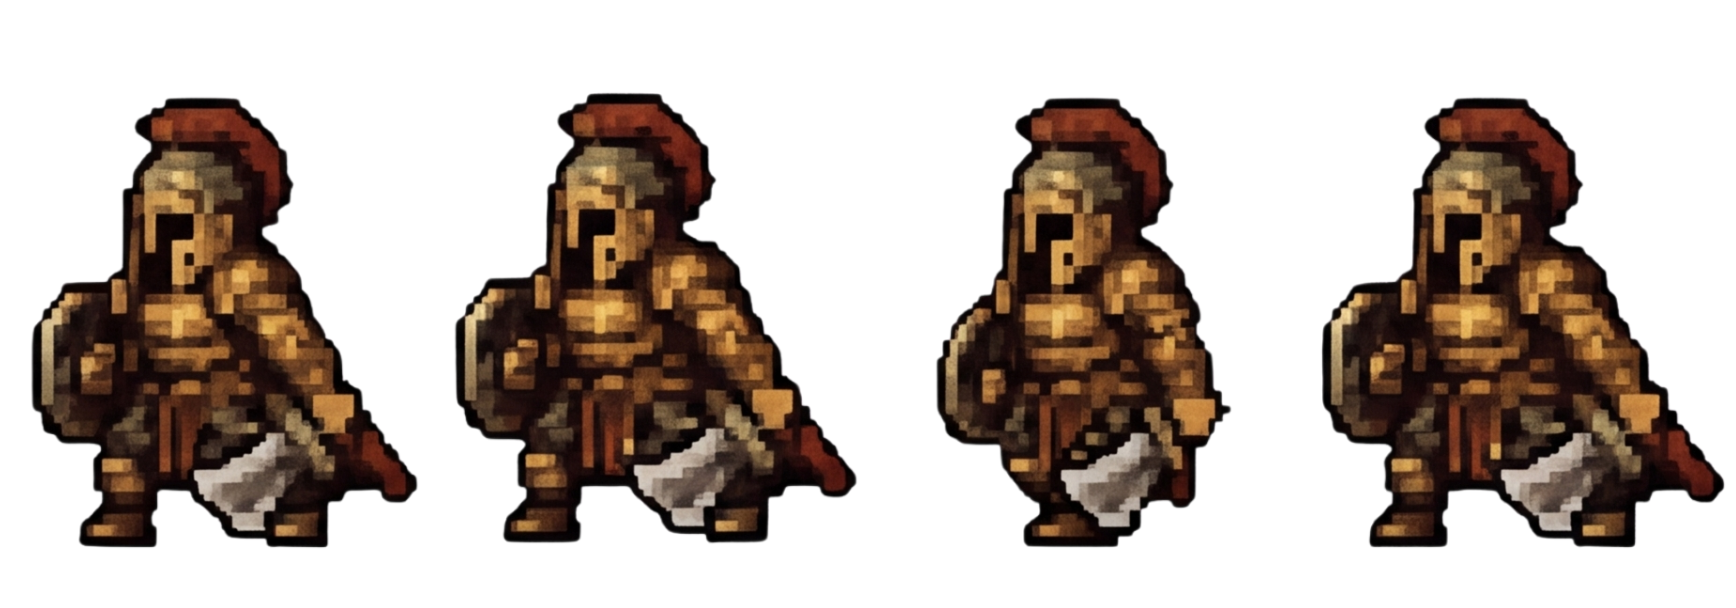
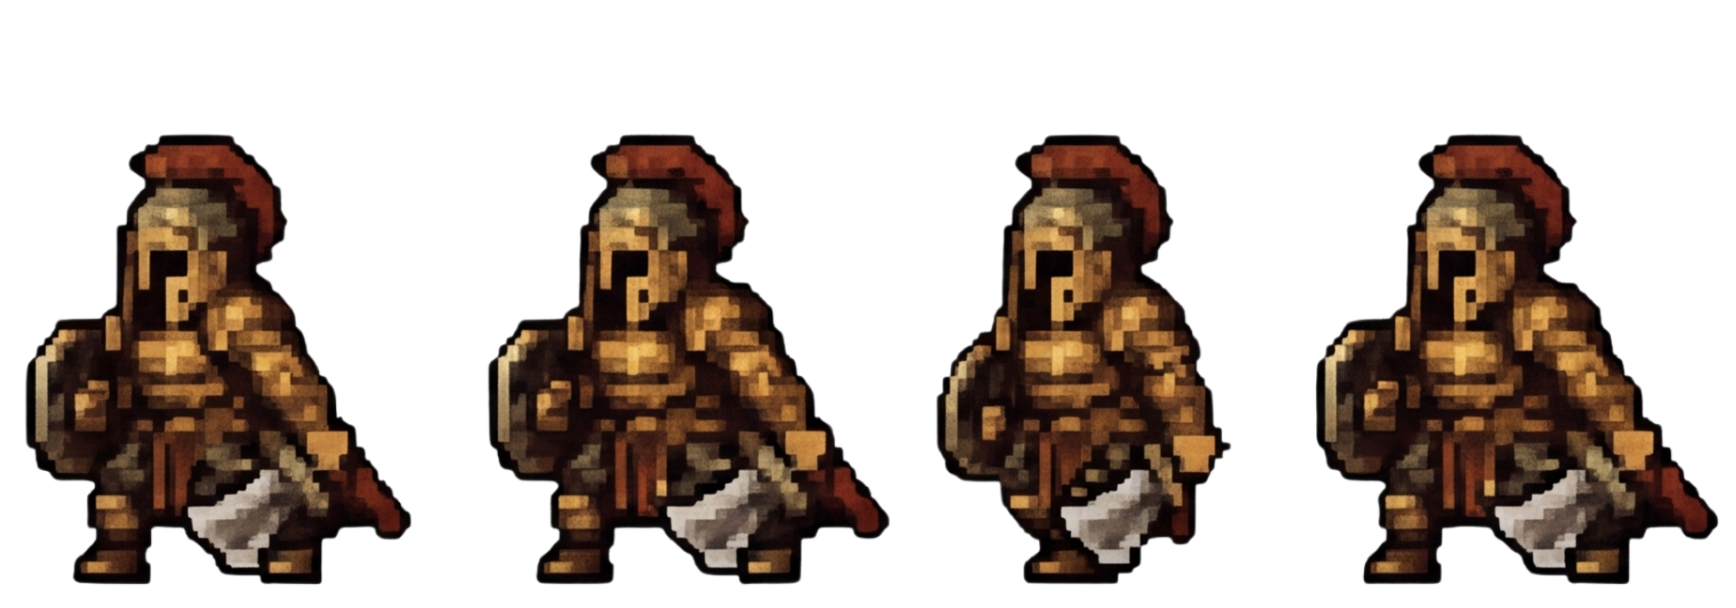
Añado los sprites y logica para atacar de player 3

diff --git a/client/objects/Player3.js b/client/objects/Player3.js
@@ -16,14 +16,21 @@ class Player3 extends PlayerBase {  //1736 x 608 px
         this.isMoving = false;
 
         //upload all the sprites
-        this.spriteRight = new Image();
+        this.spriteRight = new Image();  //walk
         this.spriteRight.src = "./assets/player3/9.png";
         this.spriteLeft = new Image();
         this.spriteLeft.src = "./assets/player3/10.png";
-        this.spriteJumpRight = new Image();
+
+        this.spriteJumpRight = new Image();  //jump
         this.spriteJumpRight.src = "./assets/player3/11.png";
         this.spriteJumpLeft = new Image();
         this.spriteJumpLeft.src = "./assets/player3/12.png";
+
+        this.attackRight = new Image();
+        this.attackRight.src = "./assets/player3/attackright.png";  //attack right
+        this.attackLeft = new Image();
+        this.attackLeft.src = "./assets/player3/attackleft.png";  //attack left
+
 
         //initial sprite
         this.spriteImage = this.spriteRight;
